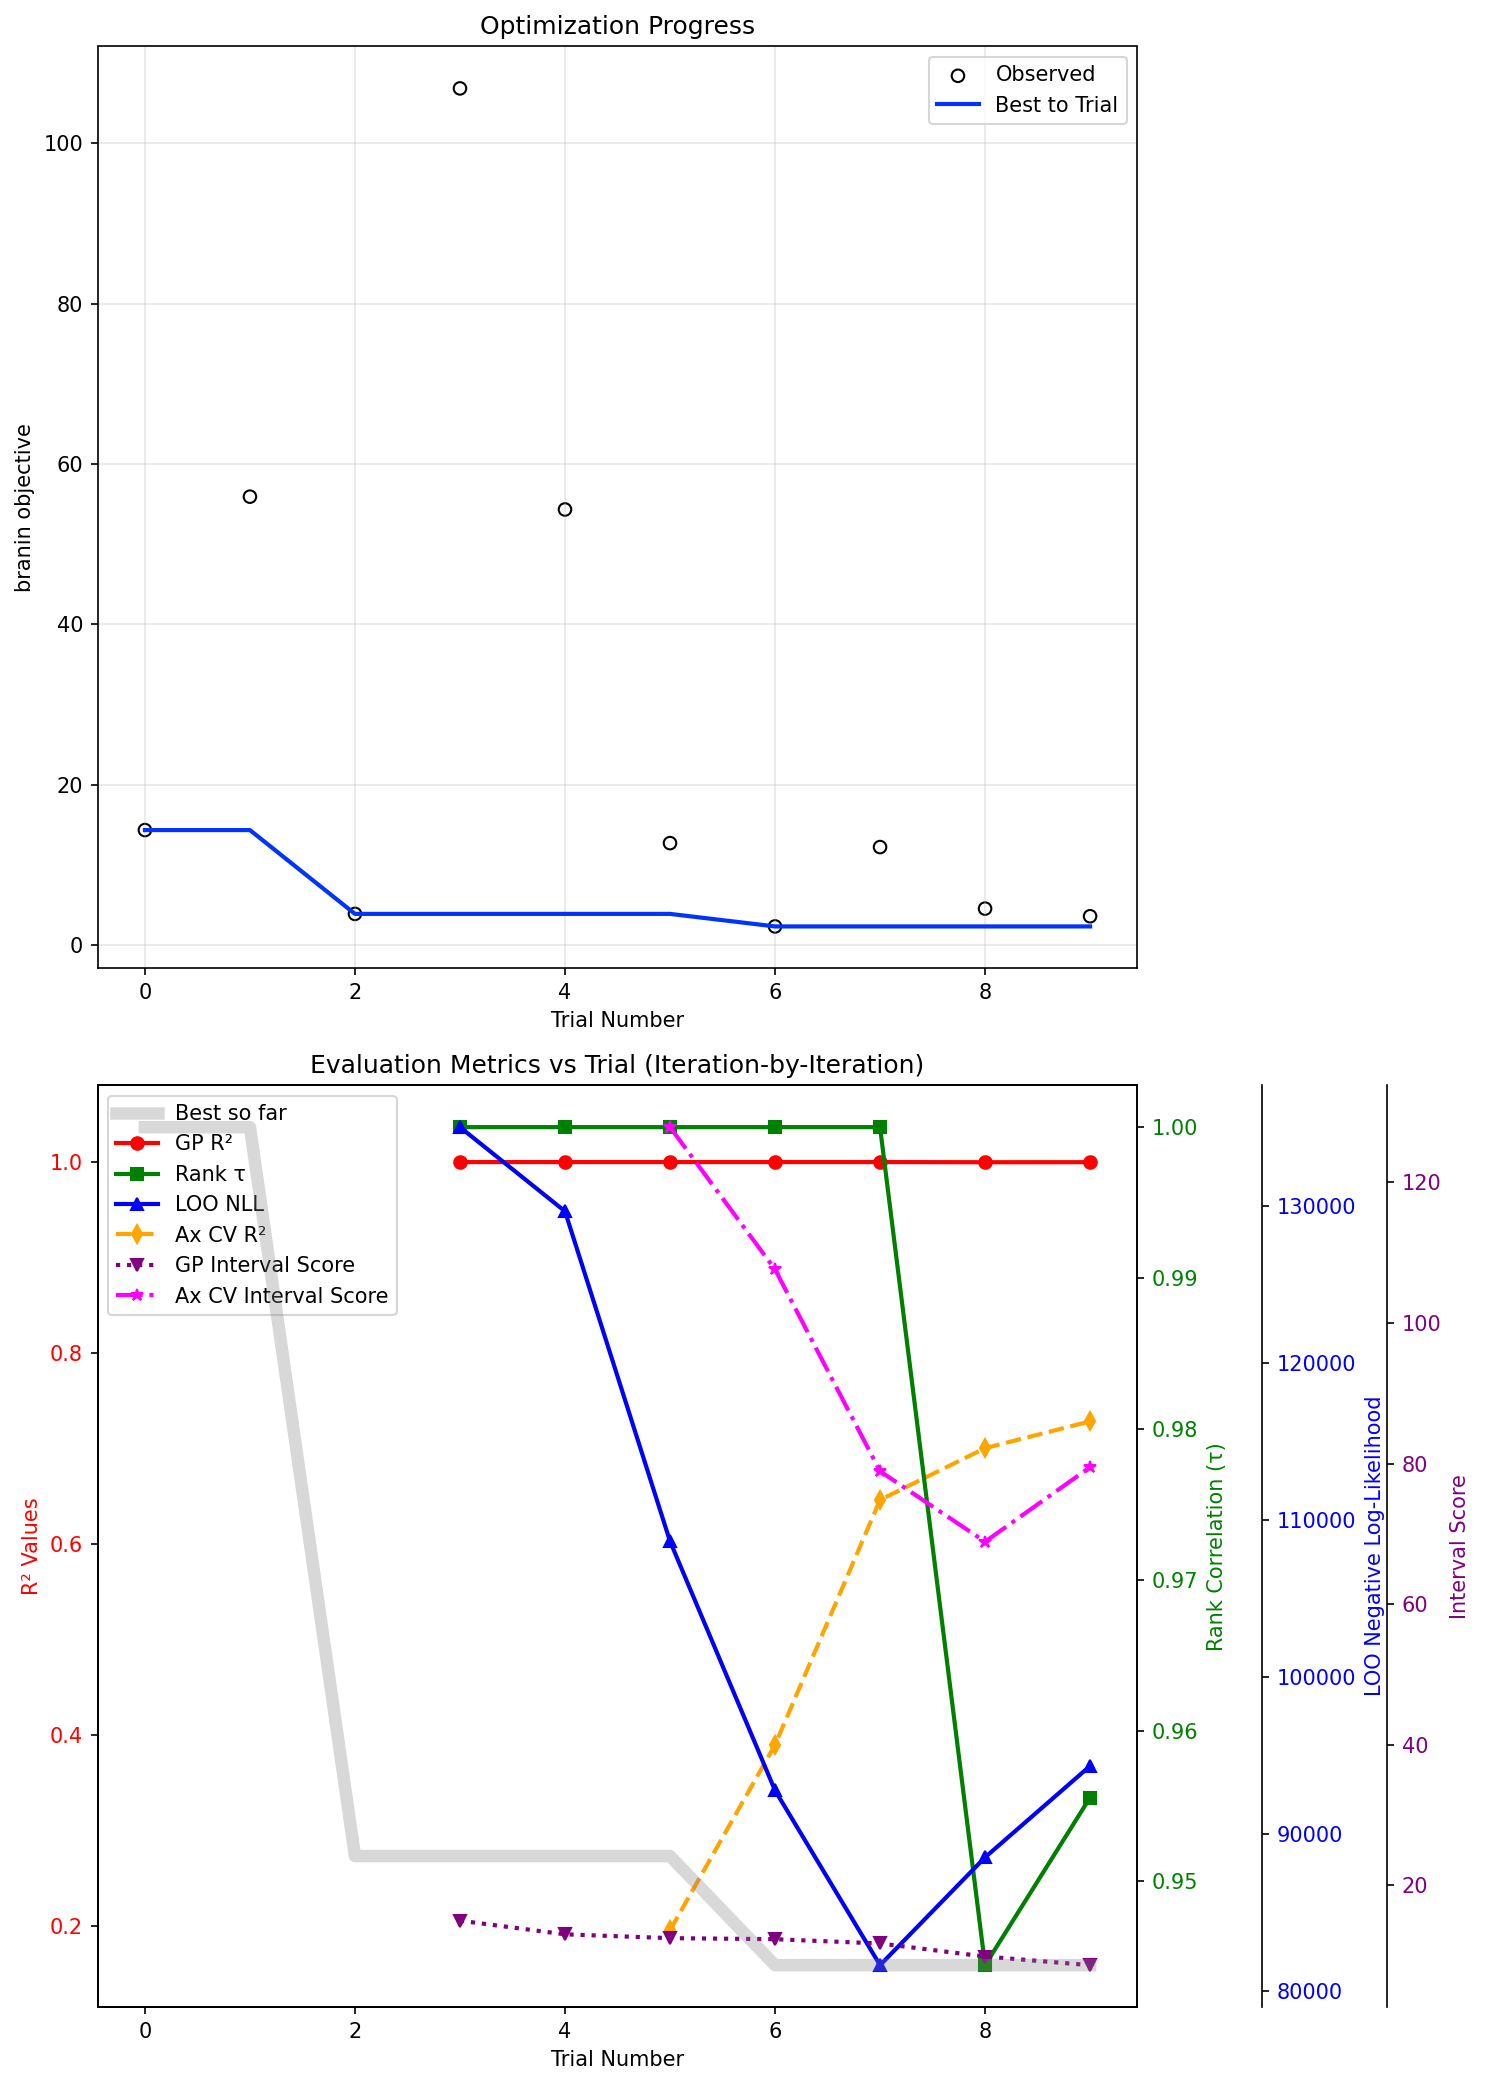
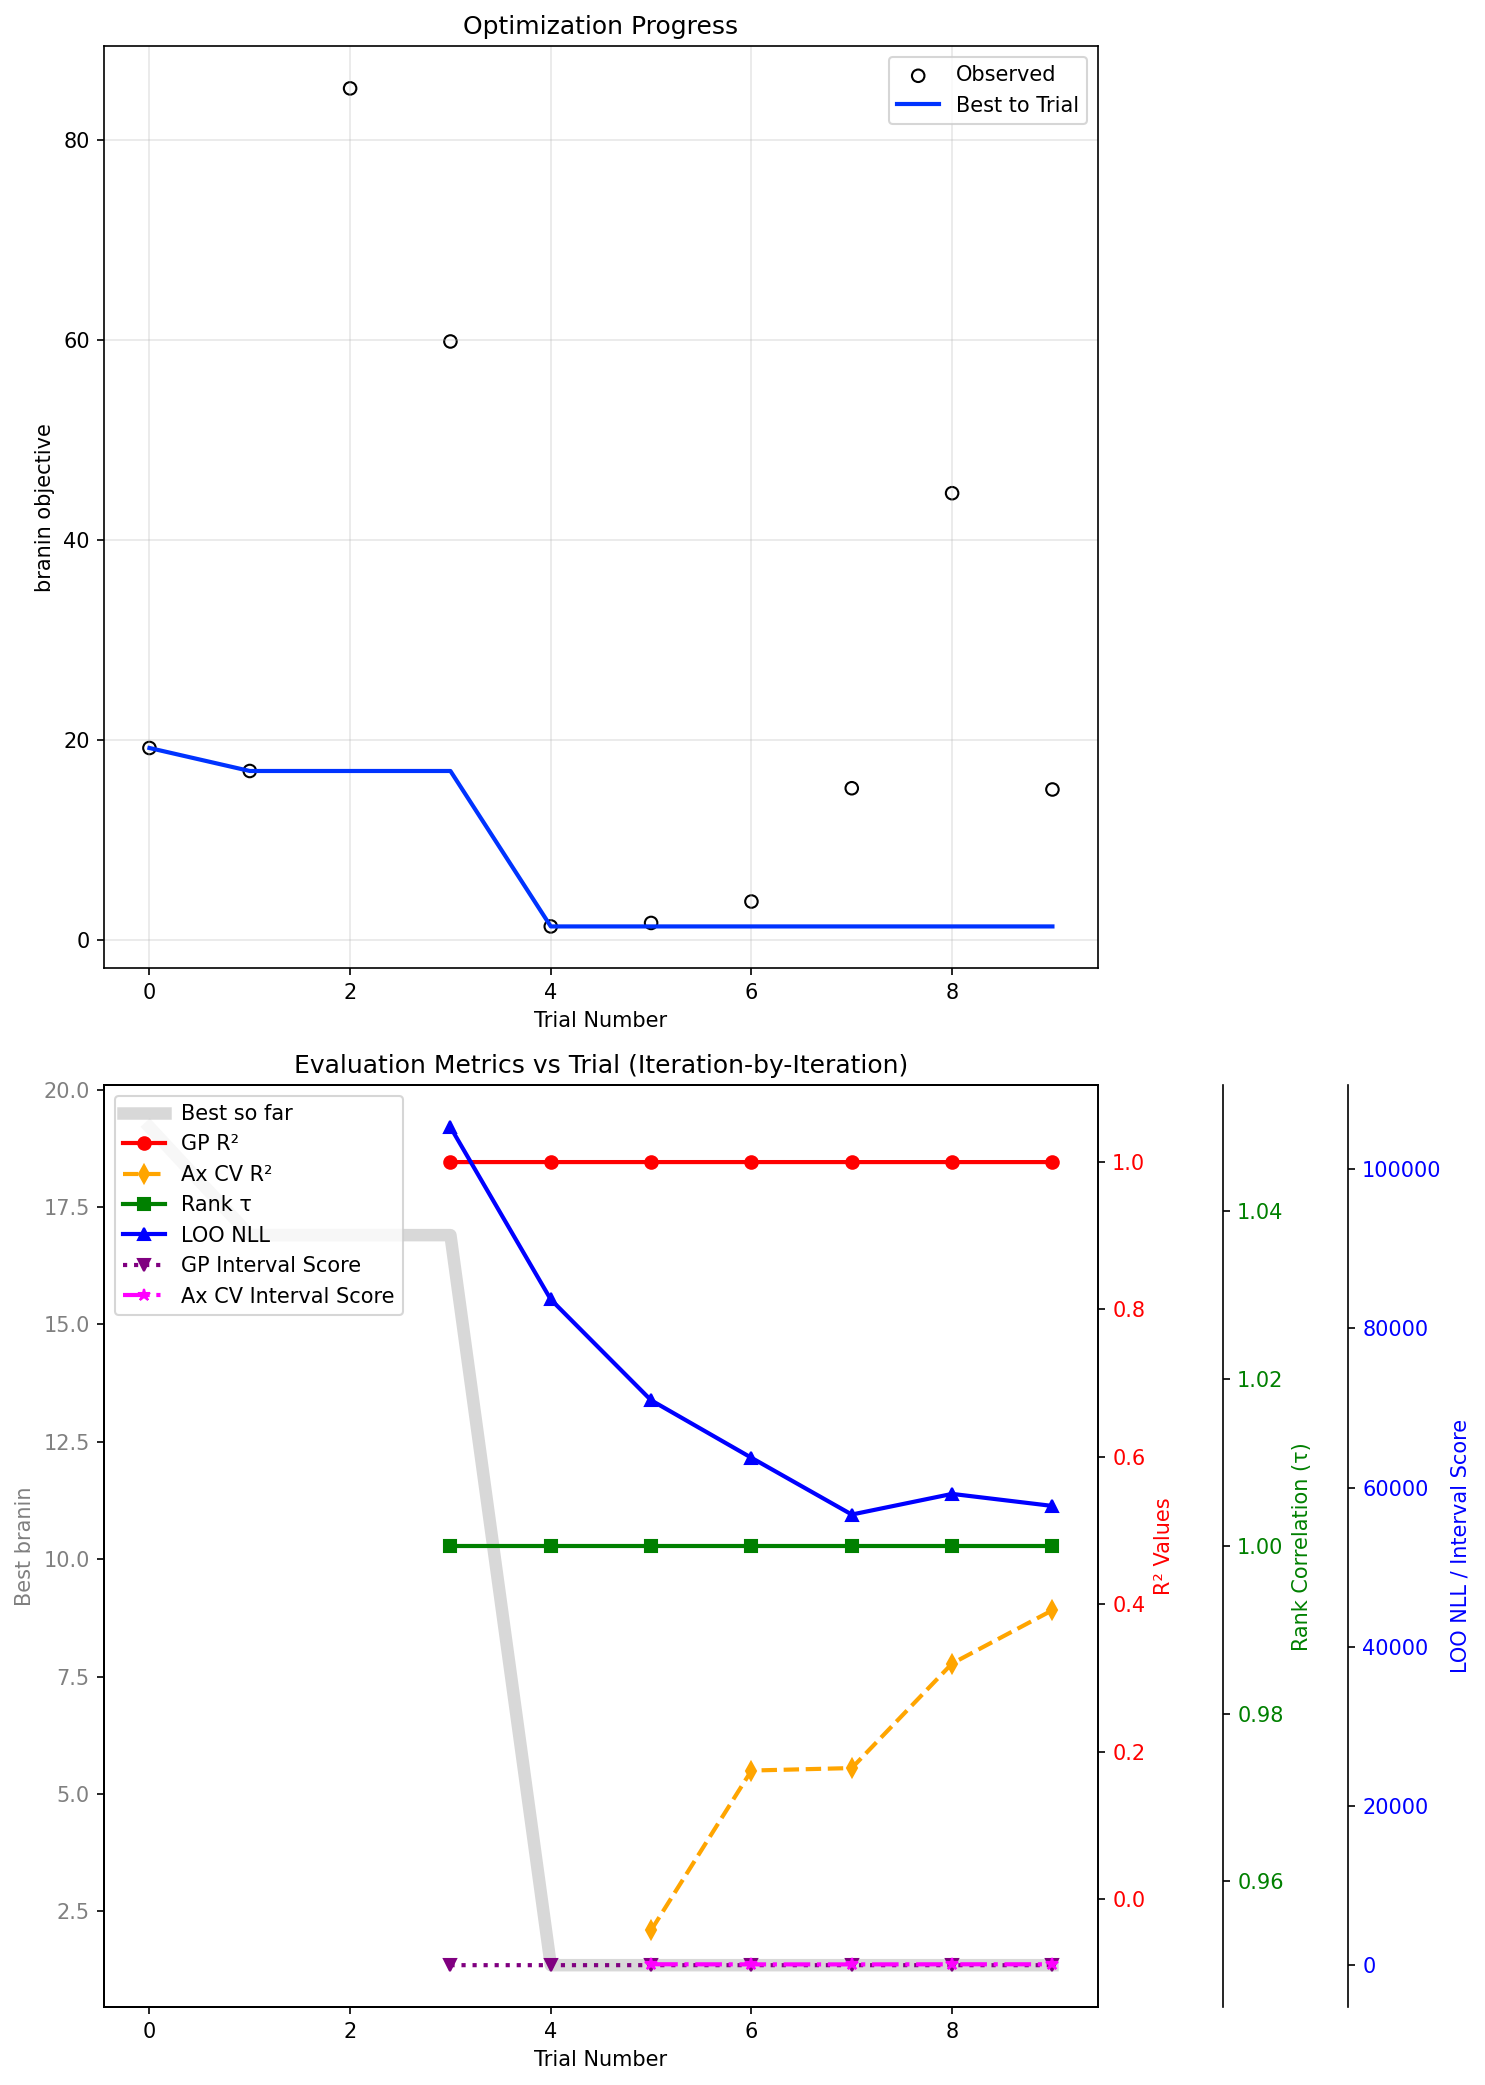
Fix plotting axes: best-so-far on left y-axis, R² on right; move print statements to metrics functions

diff --git a/scripts/bo_benchmarks/demonstrations/branin_campaign_demonstration.py b/scripts/bo_benchmarks/demonstrations/branin_campaign_demonstration.py
@@ -77,6 +77,7 @@ def calculate_ax_cross_validation_metrics(ax_client):
         
         # Calculate R² using Ax's cross validation predictions
         ax_cv_r2 = r2_score(y_act, y_pred)
+        print(f"  Ax CV R²: {ax_cv_r2:.4f}")
         
         # For interval score calculation, we need uncertainty estimates
         # We'll use the residuals to estimate uncertainty
@@ -89,6 +90,7 @@ def calculate_ax_cross_validation_metrics(ax_client):
         
         interval_scores = interval_score(np.array(y_act), lower, upper)
         ax_cv_interval_score = np.mean(interval_scores)
+        print(f"  Ax CV Interval Score: {ax_cv_interval_score:.4f}")
         
         return ax_cv_r2, ax_cv_interval_score
         
@@ -157,6 +159,10 @@ def calculate_iteration_metrics(ax_client, trial_index):
             'importance': imp
         }
         
+        # Print metrics for this iteration
+        print(f"  GP R²: {gp_r2:.4f}, LOO NLL: {loo:.2f}")
+        print(f"  GP Interval Score: {mean_interval_score:.4f}")
+        
         return metrics
         
     except Exception as e:
@@ -198,13 +204,6 @@ for i in range(10):
     iteration_metrics = calculate_iteration_metrics(ax_client, trial_index)
     if iteration_metrics:
         all_metrics.append(iteration_metrics)
-        print(f"  GP R²: {iteration_metrics['gp_r2']:.4f}, LOO NLL: {iteration_metrics['loo_nll']:.2f}")
-        if iteration_metrics['ax_cv_r2'] is not None:
-            print(f"  Ax CV R²: {iteration_metrics['ax_cv_r2']:.4f}")
-        if iteration_metrics['interval_score'] is not None:
-            print(f"  GP Interval Score: {iteration_metrics['interval_score']:.4f}")
-        if iteration_metrics['ax_cv_interval_score'] is not None:
-            print(f"  Ax CV Interval Score: {iteration_metrics['ax_cv_interval_score']:.4f}")
 
 best_parameters, metrics = ax_client.get_best_parameters()
 print(f"\nBest parameters: {best_parameters}")
@@ -267,24 +266,25 @@ if all_metrics:
     ax_cv_interval_trial_nums = [m['trial'] for m in all_metrics if m['ax_cv_interval_score'] is not None]
     
     # Use multiple y-axes for different scales
-    ax2_twin1 = ax2.twinx()
+    ax2_twin1 = ax2.twinx()  # R² values will be on the right
     ax2_twin2 = ax2.twinx()
     ax2_twin3 = ax2.twinx()
-    ax2_twin4 = ax2.twinx()  # Add new axis for best-so-far trace
     ax2_twin2.spines['right'].set_position(('outward', 60))
     ax2_twin3.spines['right'].set_position(('outward', 120))
-    ax2_twin4.spines['right'].set_position(('outward', 180))
     
-    # Plot main metrics first
-    line1 = ax2.plot(trial_nums, gp_r2_values, 'r-', label='GP R²', marker='o', linewidth=2, zorder=3)
-    line2 = ax2_twin1.plot(trial_nums, rank_tau_values, 'g-', label='Rank τ', marker='s', linewidth=2, zorder=3)
-    line3 = ax2_twin2.plot(trial_nums, loo_values, 'b-', label='LOO NLL', marker='^', linewidth=2, zorder=3)
+    # Plot best-so-far trace on the left (main) y-axis
+    best_so_far = np.minimum.accumulate(df[objective_name])
+    line_best = ax2.plot(df.index, best_so_far, color='gray', linewidth=6, alpha=0.3, 
+                         label='Best so far', linestyle='-', zorder=1)
     
-    # Plot Ax CV R² if available
-    lines = line1 + line2 + line3
+    # Plot R² values on the right y-axis (ax2_twin1)
+    line1 = ax2_twin1.plot(trial_nums, gp_r2_values, 'r-', label='GP R²', marker='o', linewidth=2, zorder=3)
+    lines = line_best + line1
+    
+    # Plot Ax CV R² if available (also on right y-axis)
     if ax_cv_r2_values:
-        line4 = ax2.plot(ax_cv_trial_nums, ax_cv_r2_values, 'orange', label='Ax CV R²', marker='d', 
-                        linewidth=2, linestyle='--', zorder=3)
+        line4 = ax2_twin1.plot(ax_cv_trial_nums, ax_cv_r2_values, 'orange', label='Ax CV R²', marker='d', 
+                              linewidth=2, linestyle='--', zorder=3)
         lines += line4
     
     # Set appropriate y-axis limits for R² values
@@ -292,16 +292,12 @@ if all_metrics:
     if r2_values_all:
         r2_min, r2_max = min(r2_values_all), max(r2_values_all)
         r2_range = r2_max - r2_min
-        ax2.set_ylim(r2_min - 0.1 * r2_range, r2_max + 0.1 * r2_range)
+        ax2_twin1.set_ylim(r2_min - 0.1 * r2_range, r2_max + 0.1 * r2_range)
     
-    # Add overlaid best-so-far trace on its own y-axis (faded gray, semi-transparent)
-    best_so_far = np.minimum.accumulate(df[objective_name])
-    line_best = ax2_twin4.plot(df.index, best_so_far, color='gray', linewidth=6, alpha=0.3, 
-                              label='Best so far', linestyle='-', zorder=1)
-    
-    # Hide the y-axis for best-so-far trace to keep it subtle
-    ax2_twin4.set_yticks([])
-    ax2_twin4.spines['right'].set_visible(False)
+    # Plot other metrics on additional y-axes
+    line2 = ax2_twin2.plot(trial_nums, rank_tau_values, 'g-', label='Rank τ', marker='s', linewidth=2, zorder=3)
+    line3 = ax2_twin3.plot(trial_nums, loo_values, 'b-', label='LOO NLL', marker='^', linewidth=2, zorder=3)
+    lines += line2 + line3
     
     # Plot GP-based interval score if available  
     if interval_score_values:
@@ -315,21 +311,16 @@ if all_metrics:
                               label='Ax CV Interval Score', marker='*', linewidth=2, linestyle='-.', zorder=3)
         lines += line6
         
-    # Add best-so-far line to the legend
-    best_line = [plt.Line2D([0], [0], color='gray', linewidth=6, alpha=0.3, label='Best so far')]
-    lines = best_line + lines
-        
-    ax2_twin3.set_ylabel("Interval Score", color='purple')
-    ax2_twin3.tick_params(axis='y', labelcolor='purple')
-    
     ax2.set_xlabel("Trial Number")
-    ax2.set_ylabel("R² Values", color='r')
-    ax2_twin1.set_ylabel("Rank Correlation (τ)", color='g')
-    ax2_twin2.set_ylabel("LOO Negative Log-Likelihood", color='b')
+    ax2.set_ylabel(f"Best {objective_name}", color='gray')
+    ax2_twin1.set_ylabel("R² Values", color='r')
+    ax2_twin2.set_ylabel("Rank Correlation (τ)", color='g')
+    ax2_twin3.set_ylabel("LOO NLL / Interval Score", color='b')
     
-    ax2.tick_params(axis='y', labelcolor='r')
-    ax2_twin1.tick_params(axis='y', labelcolor='g')
-    ax2_twin2.tick_params(axis='y', labelcolor='b')
+    ax2.tick_params(axis='y', labelcolor='gray')
+    ax2_twin1.tick_params(axis='y', labelcolor='r')
+    ax2_twin2.tick_params(axis='y', labelcolor='g')
+    ax2_twin3.tick_params(axis='y', labelcolor='b')
     
     ax2.set_title("Evaluation Metrics vs Trial (Iteration-by-Iteration)")
     
